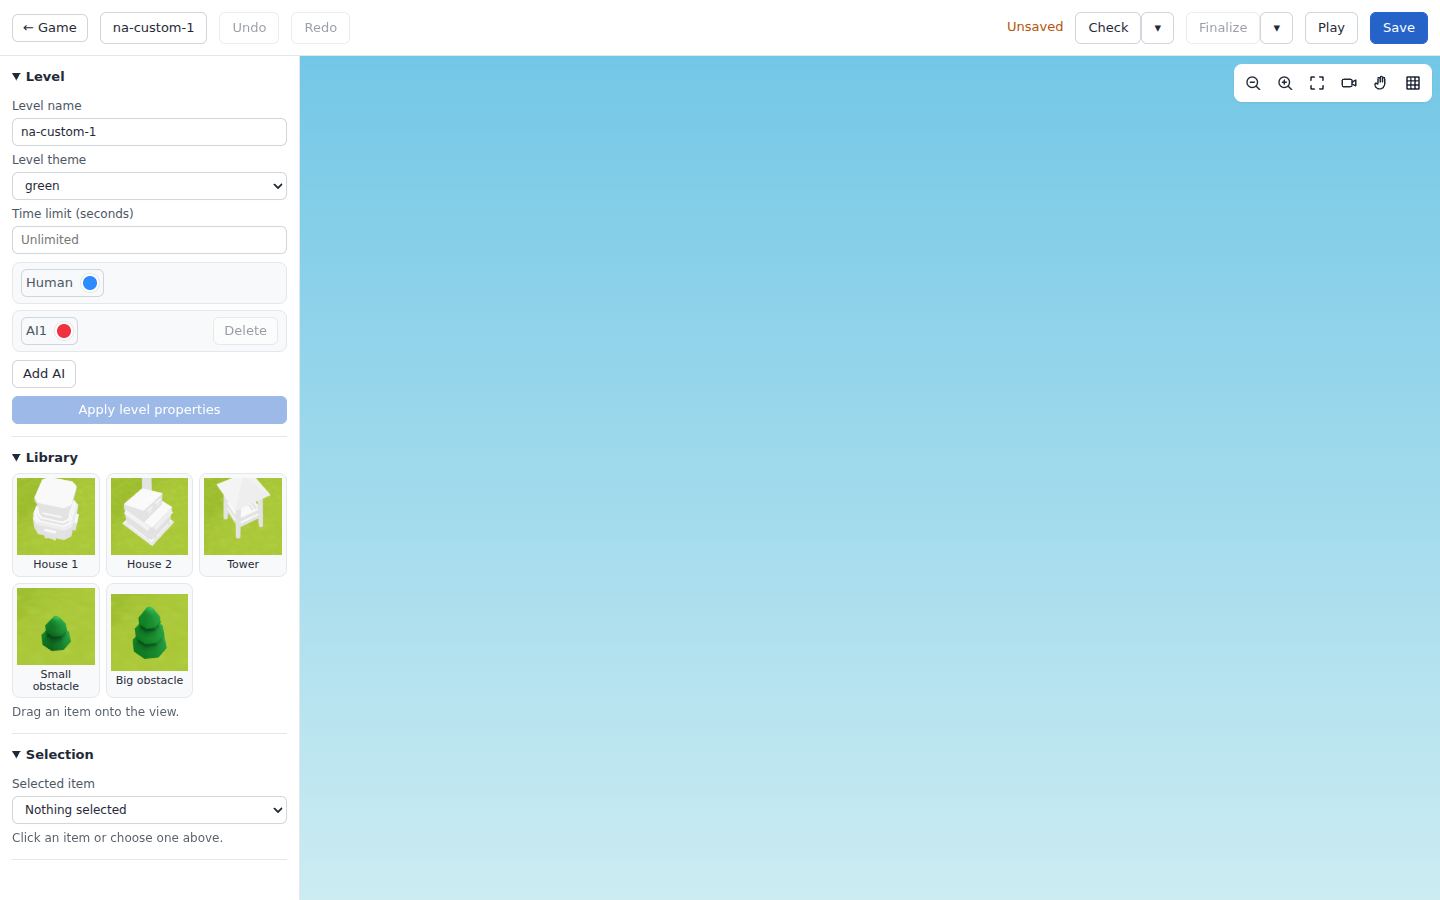
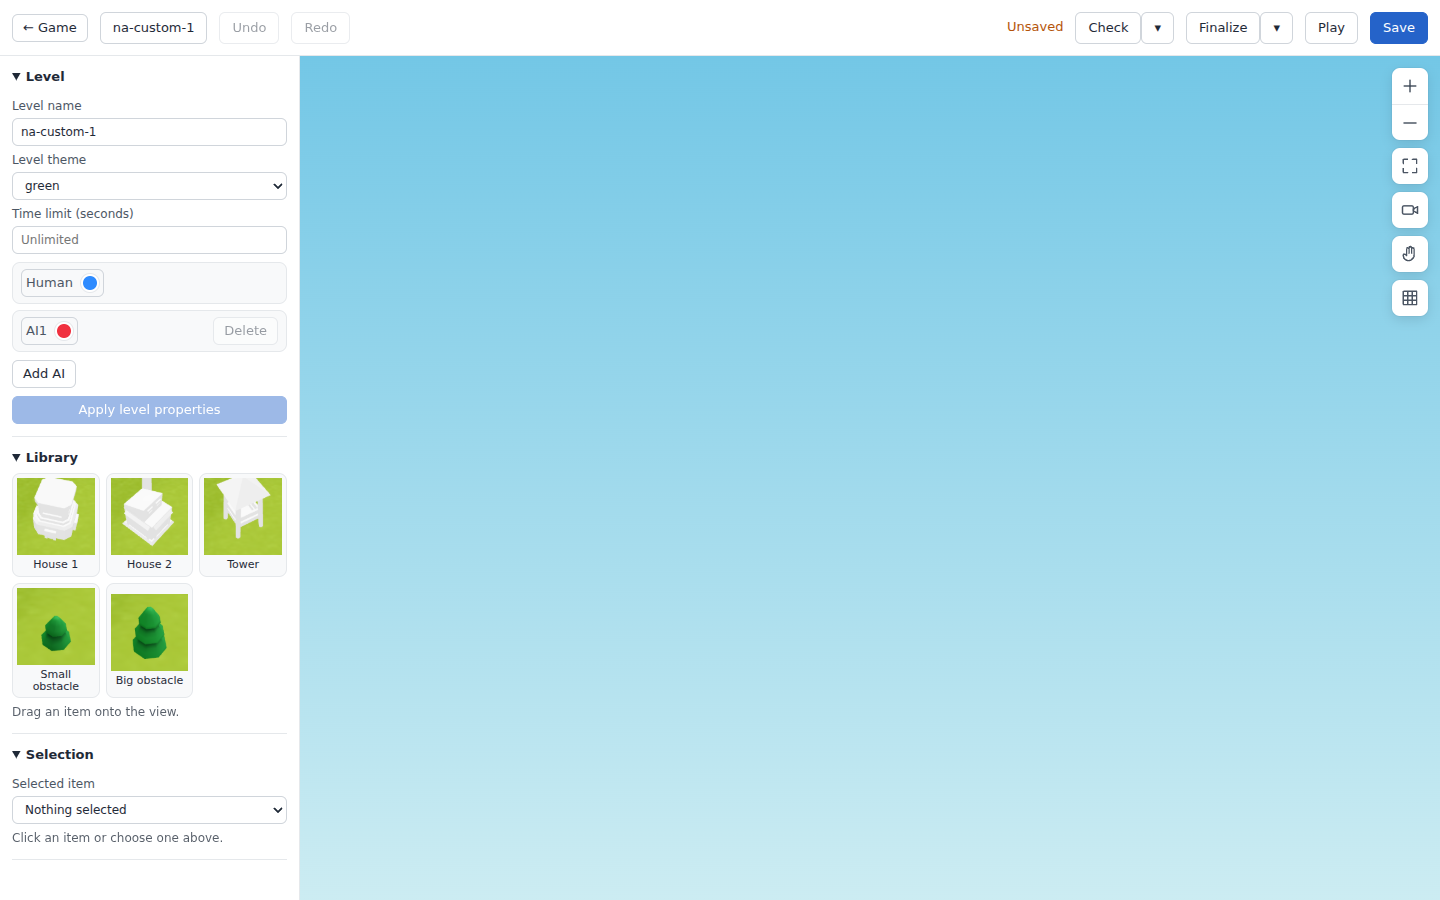
05-map-controls: Task 4 — Verify and capture canvas control states

Changed region(s): [[0.8438, 0.0, 1.0, 0.3733]]

diff --git a/docs/agent_files/feat-editor-chrome-polish-20261026-1553/05-map-controls/code-2026-10-26-1755.md b/docs/agent_files/feat-editor-chrome-polish-20261026-1553/05-map-controls/code-2026-10-26-1755.md
@@ -1,0 +1,47 @@
+---
+status: done
+summary: SP05 Tasks 3–4 — 52 editor browser and 129 editor unit tests pass; 11 visual/state captures; SP03 gutter integration pending.
+date: 2026-10-26
+---
+# Code run — SP05 Tasks 3–4
+
+Branch: `feat/editor-chrome-polish`. Base: `ac8478d` (Task 2 styling). Worker: GPT-6.1-Sol. No product behavior changes, no `TASKS.md` edits, no push.
+
+| Task | Result | Commit / files |
+|---|---|---|
+| 3 — Update viewport tests | Complete | `528f3be`; `apps/web/e2e/editor-viewport.spec.ts` |
+| 4 — Verification and screenshots | Complete; SP03 integration pending | This artifact, `verify-controls.mjs`, `verification-results.json`, `screens/*.png`, matching `../after/` PNGs |
+
+## Verification commands and real output
+
+- `WEB_TEST_SERVER=dev pnpm --filter @node-arena/web exec playwright test editor-viewport.spec.ts -g 'canvas controls:'` → `1 passed (10.1s)`.
+- Negative probe: temporarily changed controls top/right to `8px`, ran the same command → `1 failed`, `Expected: 12`, `Received: 8` at the new top-inset assertion. Restored original CSS before subsequent tests. No product mutation retained.
+- `WEB_TEST_SERVER=dev pnpm --filter @node-arena/web exec playwright test editor-viewport.spec.ts editor-model.spec.ts editor-shell-ui.spec.ts` → `25 passed (1.8m)`, exit 0 (`/tmp/sp05-t3-suite.exit`). Existing behavior/title assertions and `editor-model.spec.ts` unchanged.
+- `pnpm exec eslint apps/web/e2e/editor-viewport.spec.ts docs/agent_files/feat-editor-chrome-polish-20261026-1553/05-map-controls/verify-controls.mjs` → exit 0, no diagnostics.
+- `pnpm typecheck:web` → exit 0, no diagnostics.
+- `git diff --check` → exit 0.
+- `pnpm -C apps/web dev --port 4174 --strictPort`, then `node docs/agent_files/feat-editor-chrome-polish-20261026-1553/05-map-controls/verify-controls.mjs` → exit 0. [Machine evidence](verification-results.json), [repeatable capture harness](verify-controls.mjs).
+
+Long browser/unit commands run via `setsid nohup` wrappers with complete logs and explicit exit files; partial runs never count. Both final exit files contain `0`; no interrupted runs counted. Existing Three.js missing-texture-data and NO_COLOR/FORCE_COLOR warnings remain; no test failures.
+
+- `WEB_TEST_SERVER=dev pnpm --filter @node-arena/web exec playwright test '/editor-[^/]*\.spec\.ts$'` → `2 skipped`, `52 passed (3.2m)`, exit 0 (`/tmp/sp05-t4-browser.log`, `/tmp/sp05-t4-browser.exit`). The two skips are preview-only contracts, expected in dev mode.
+- `pnpm --filter @node-arena/web exec vitest run test/editor` → `Test Files 16 passed (16)`, `Tests 129 passed (129)`, `Duration 8.63s`, exit 0 (`/tmp/sp05-t4-unit.log`, `/tmp/sp05-t4-unit.exit`). Editor-focused units did not mutate historical screenshots.
+- PNG header/copy verification → 11 screenshots, all 1440×900, each `after/` copy byte-identical to `screens/`.
+
+## Acceptance and visual findings
+
+Browser test locks accessible group/name, exact six-button DOM order, equal x/width, strictly increasing y, 12px top/right inset, 36×36 buttons, five 36px-wide cards, 72px joined zoom card, four 8px gaps and 248px total height. No shared bounds helper exists in `editor-layout.spec.ts`.
+
+Opened `ref/gmaps.png`, both matching `before/` captures and all resulting default/state/focus images. [Default](screens/1-default.png) and [selected building](screens/8-building-selected-level-box.png) are 1440×900. The former horizontal pill is now five separate white, softly shadowed cards, muted icons, joined plain +/− with hairline divider and consistent top-right spacing. This matches the reference's card/zoom grouping at the approved denser 36px size. Existing SP01 neutral chrome differs intentionally from the original Coiny/green-button `before/` captures. The selected building scene and level properties remain intact.
+
+[Pressed Hand/Grid](screens/sp05-pressed-hand-grid.png): both accent-soft `rgb(231,239,252)` with accent icons `rgb(37,99,201)`; actual grid visible. [Maximum zoom](screens/sp05-zoom-max.png) and [minimum zoom](screens/sp05-zoom-min.png): the respective limit button disabled at opacity `.35`. Six `sp05-focus-1.png` … `sp05-focus-6.png` captures show real native keyboard focus in Zoom in → Zoom out → Fit area → Game camera → Hand → Show grid order. Every ring is visible/unclipped with 2px accent outline, -2px inset. No browser page errors.
+
+At 1440×900 the canvas is `{x:300,y:56,width:1140,height:844}`, column `{x:1392,y:68,width:36,height:248}`. Cards begin at y=68/148/192/236/280. Computed controls z-index=3, popover token=5, gutter token=56px, container pointer-events=none.
+
+## Deviations / follow-up
+
+SP03 Share/Check panels are not implemented yet: their integration/coverage check remains pending SP03. Verified the existing z/gutter contract; no temporary product UI added. Task 4 explicitly permits this pending note.
+
+Capture harness corrections before final success: waited for asynchronous thumbnail images; enabled both zoom buttons after returning from the minimum before testing native Tab order (disabled native buttons correctly skip focus). These were evidence-harness fixes, not product changes. All final screenshots contain loaded assets.
+
+Full monorepo units were already verified by SP02 (932); this batch follows the authorized editor-focused verification scope.
